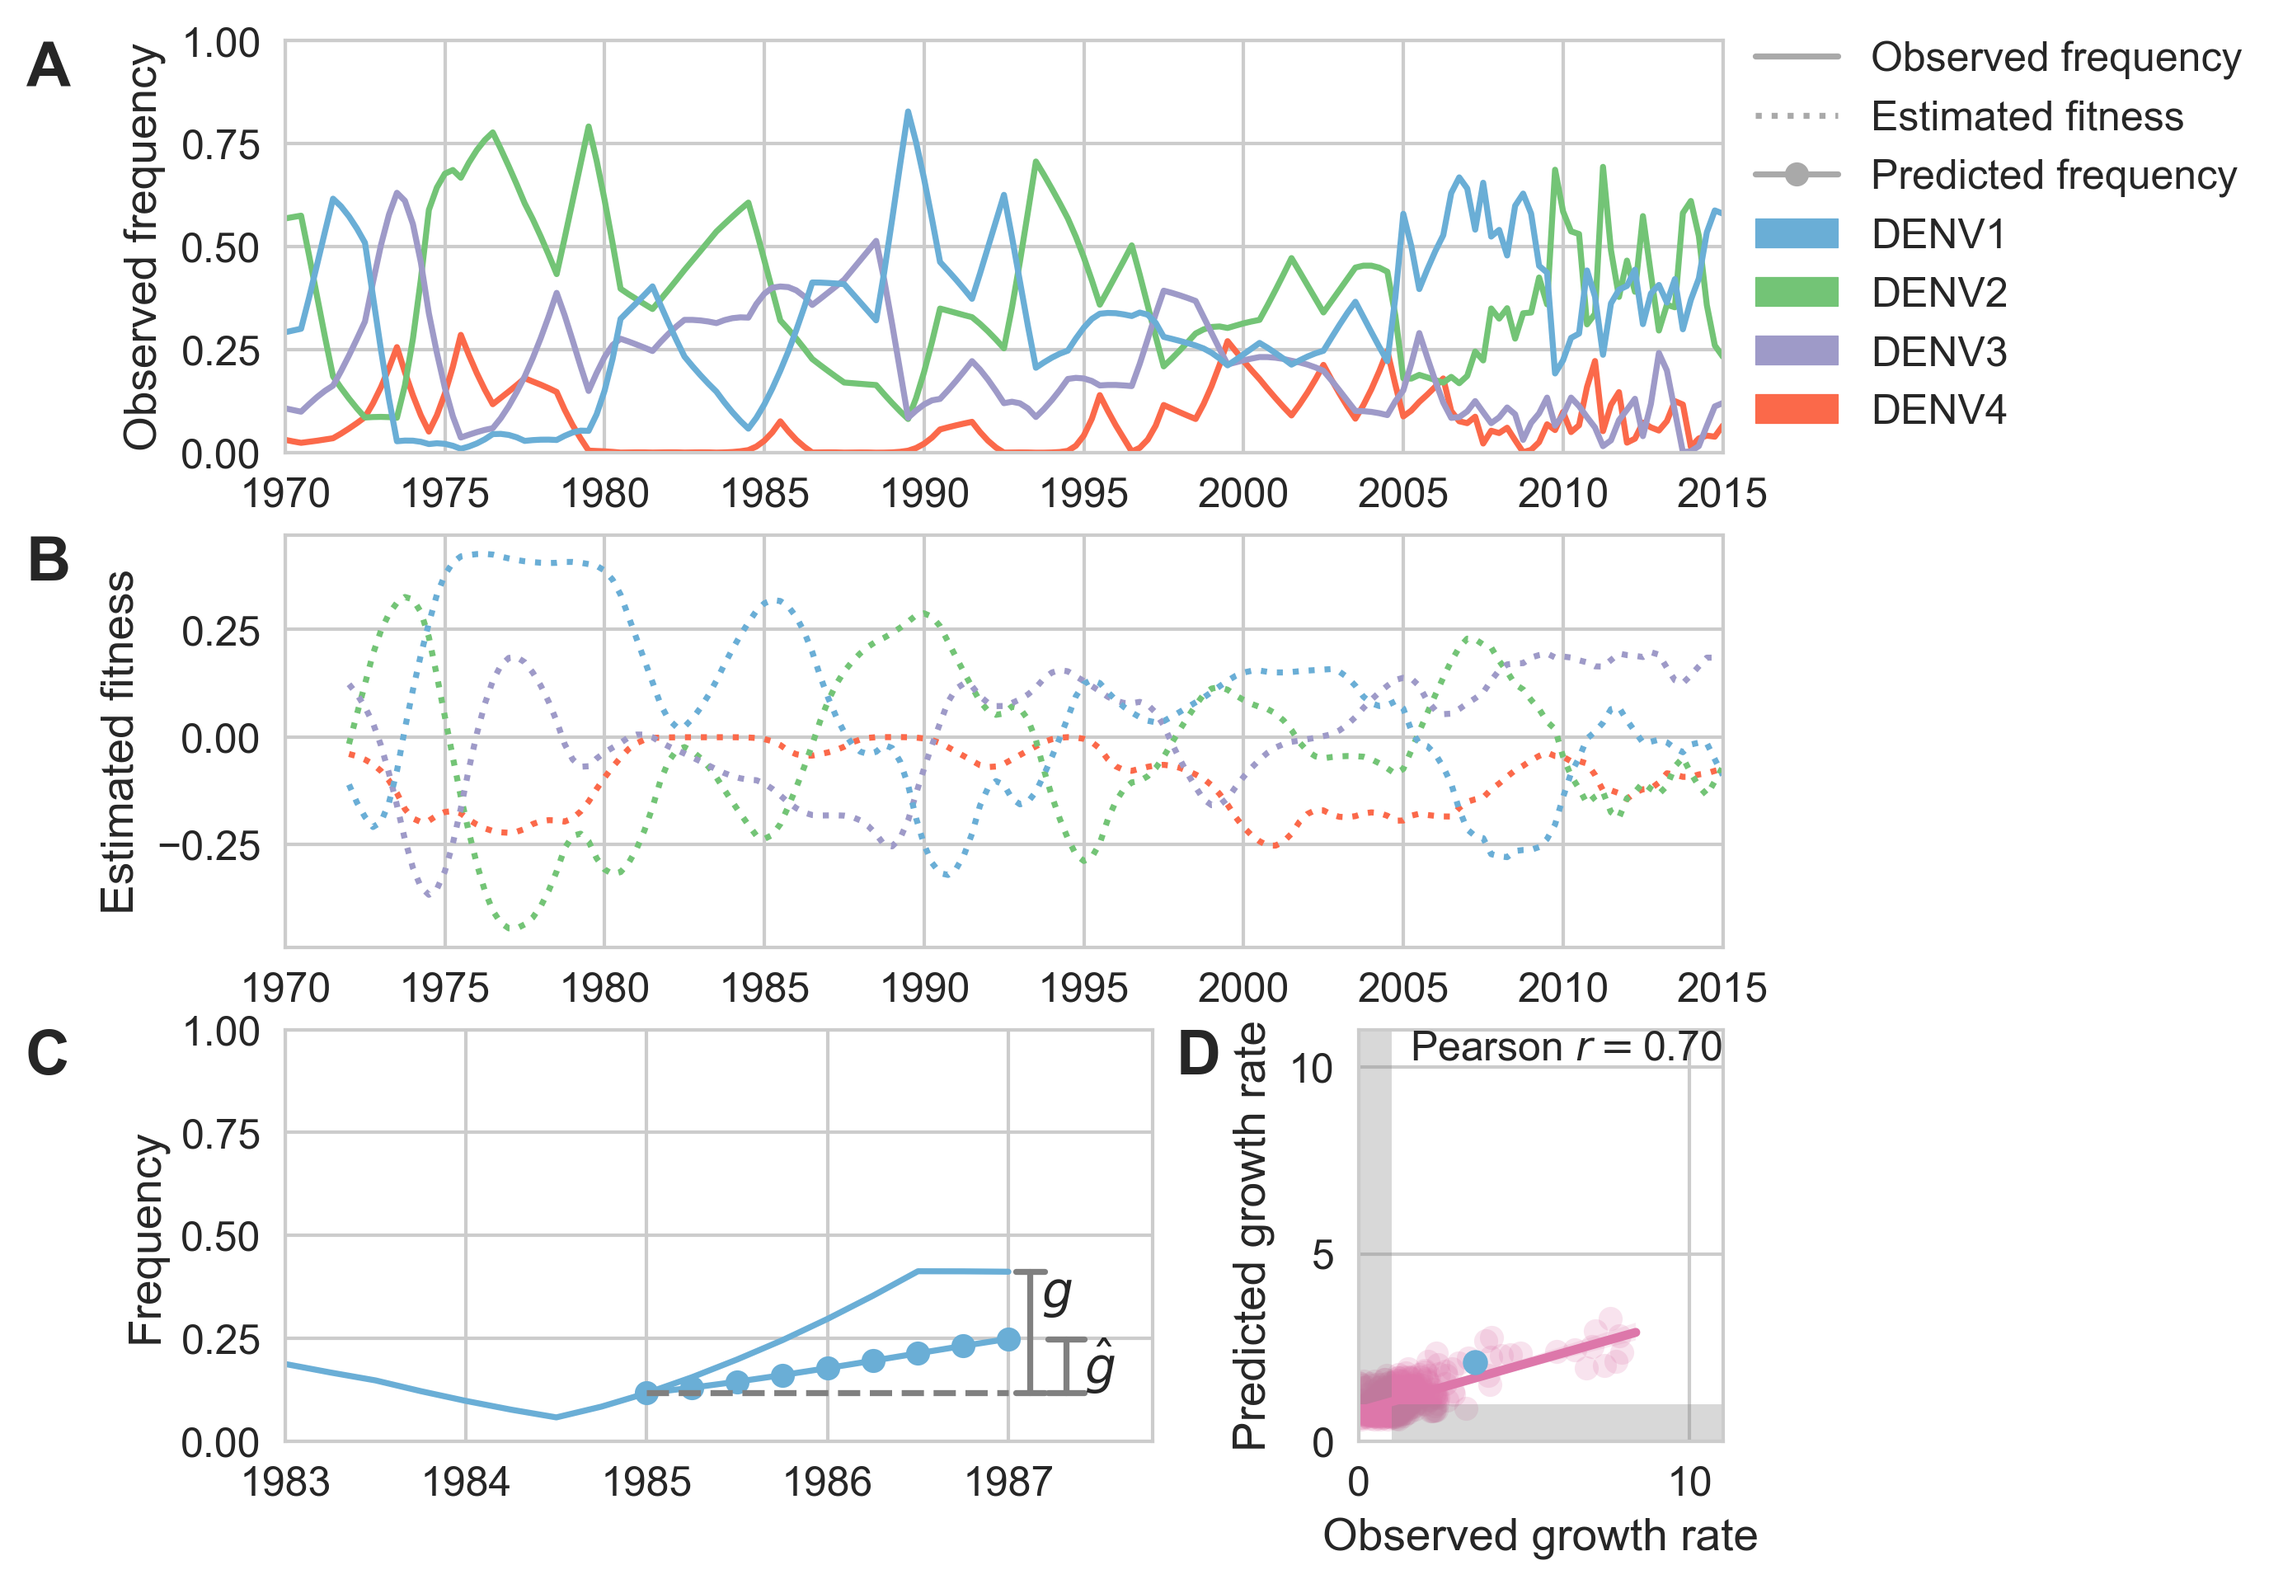
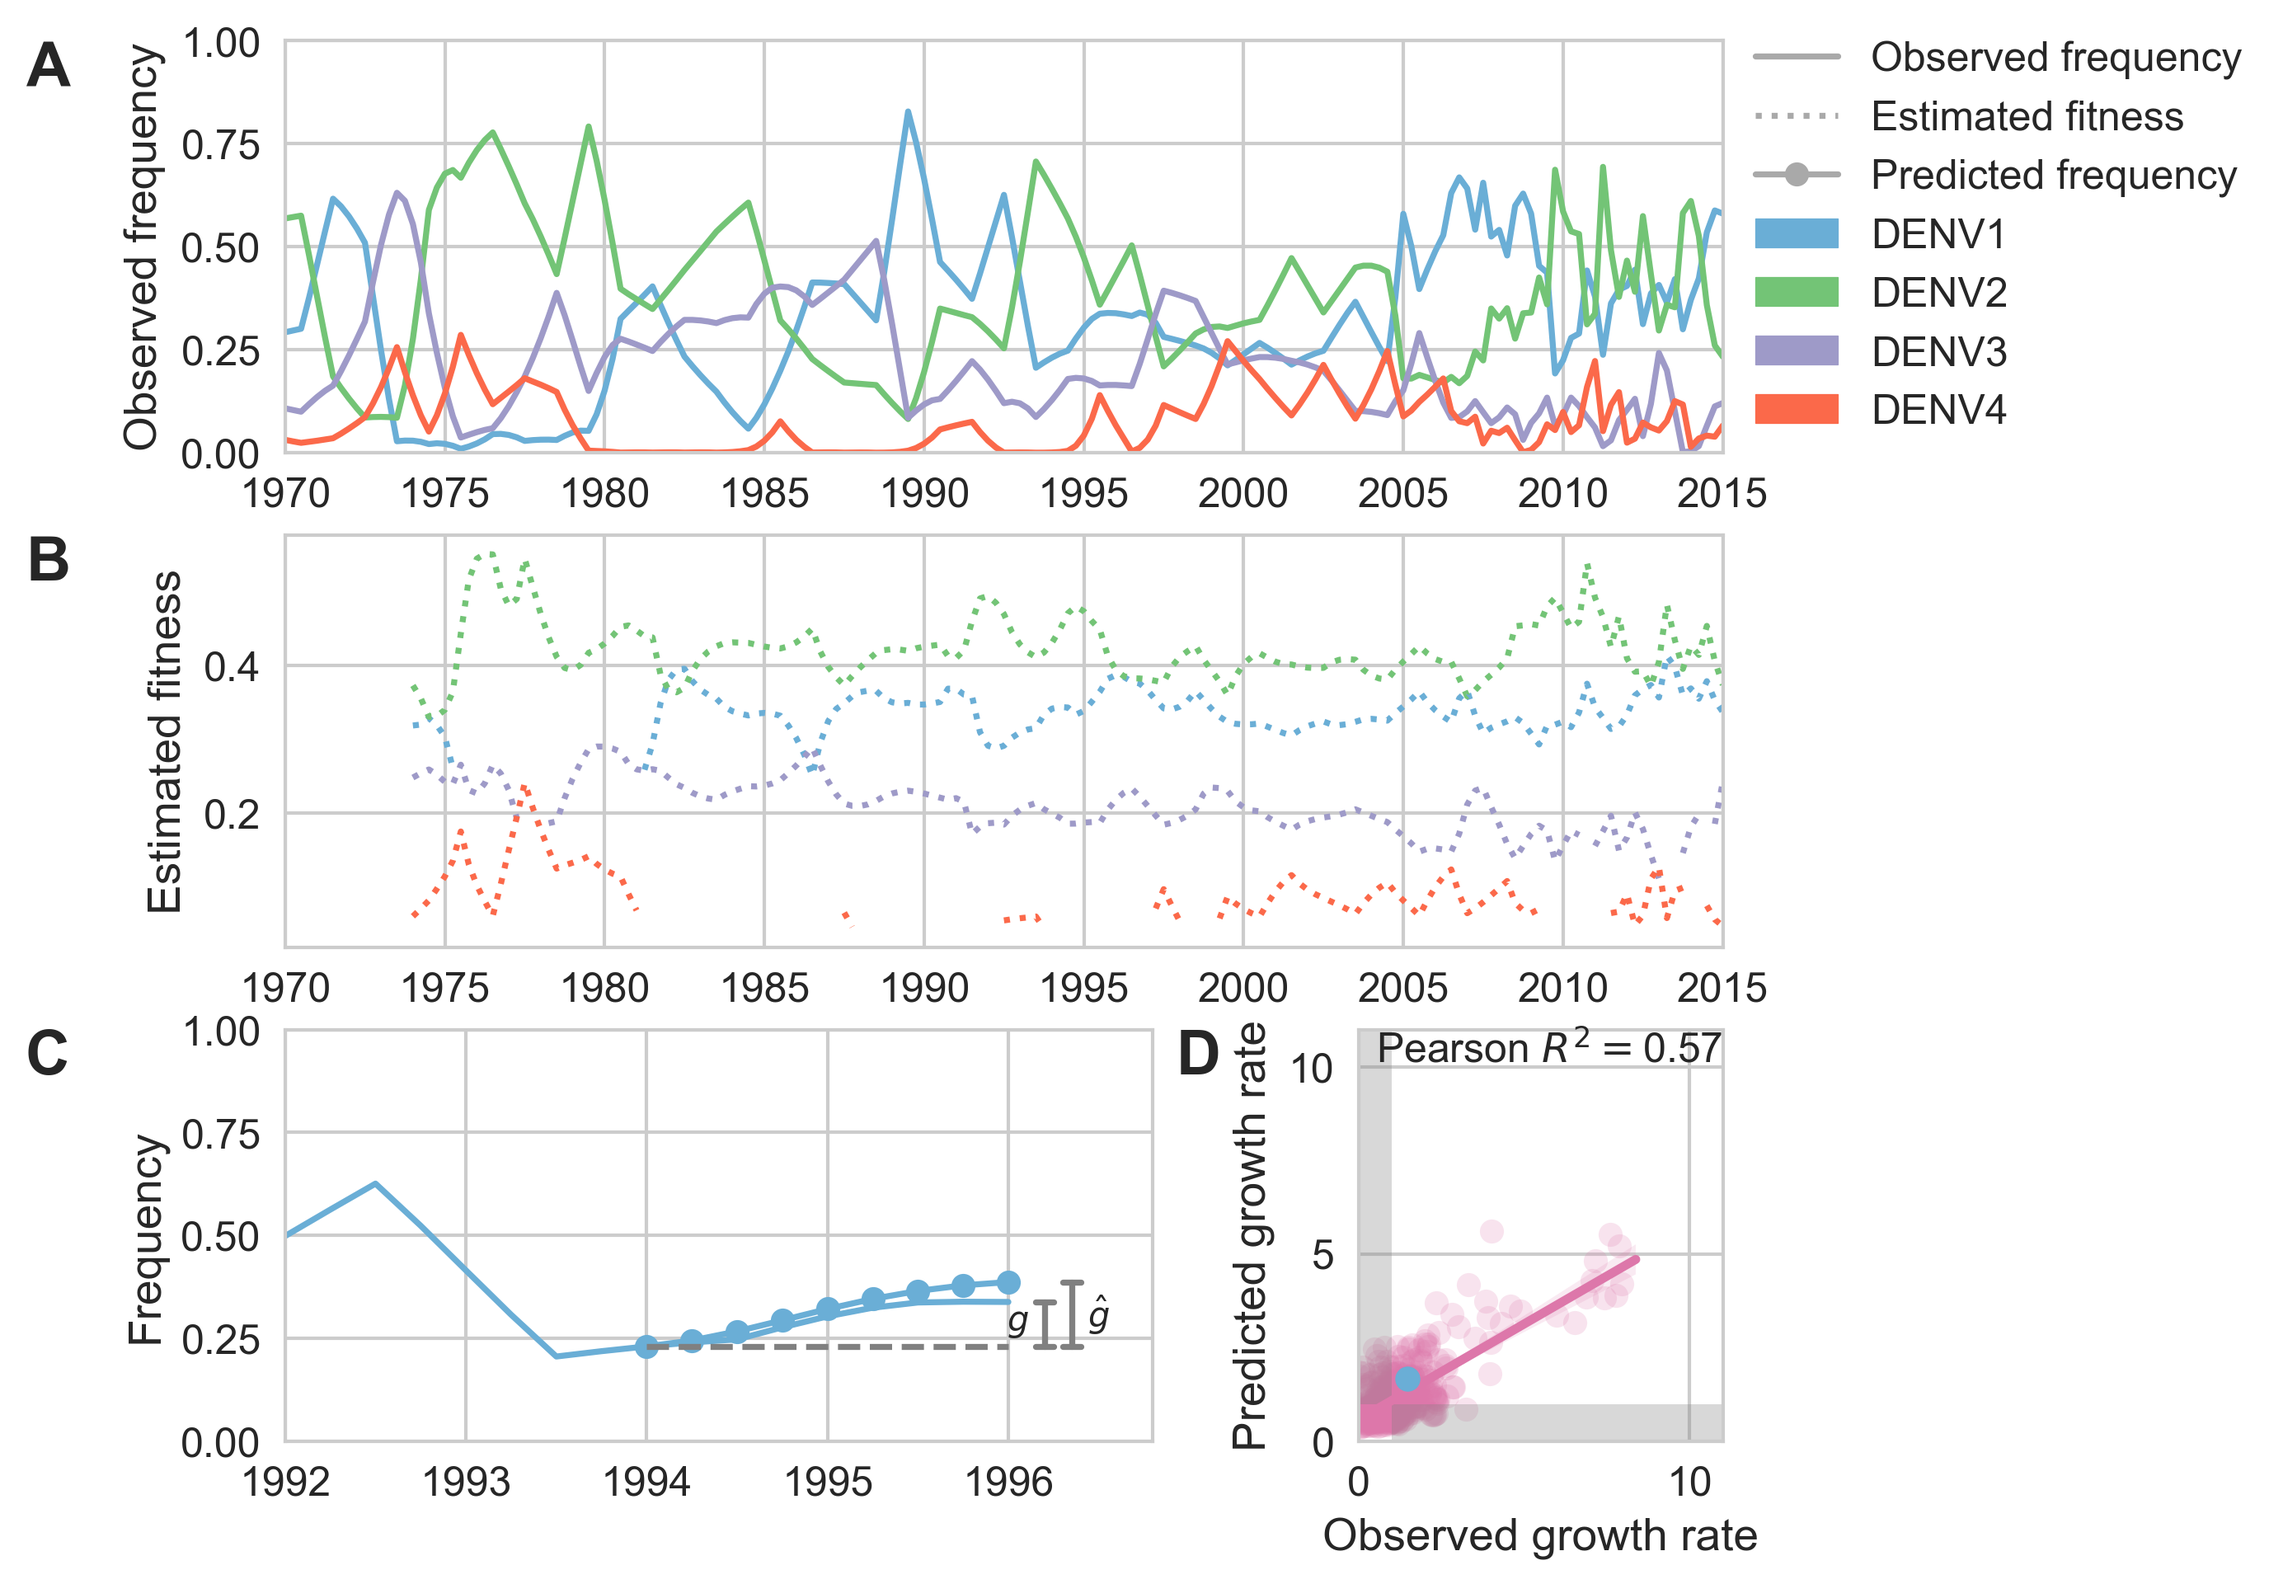
Update serotype fitness model results (RMSE-trajectory-optimized params)

diff --git a/manuscript/dengue-antigenic-dynamics.tex b/manuscript/dengue-antigenic-dynamics.tex
@@ -301,7 +301,7 @@ Thus, if antigenic novelty constitutes a fitness advantage for DENV, then we wou
     \textbf{A} The relative frequency of each serotype, $x_i$, in Southeast Asia is estimated every three months based on available sequence data.
     \textbf{B} We calculate antigenic fitness for each serotype over time as its frequency-weighted antigenic distance from recently circulating viruses.
     We then add this to a time-invariant intrinsic fitness value to calculate total fitness (shown here, arbitrary units).
-    \textbf{C} illustrates DENV1 frequencies between 1983 and 1987 as an example of how the model predicts clade growth rates.
+    \textbf{C} illustrates DENV1 frequencies between 1994 and 1996 as an example of how the model predicts clade growth rates.
     At each timepoint $t$, we blind the model to all empirical data from timepoints later than $t$ and predict each serotype's future trajectory based on its initial frequency, time-invariant intrinsic fitness, and antigenic fitness at time $t$ (Methods, Eq.~\ref{eq_predict_frequency}).
     We predict forward in three-month increments for a total prediction period of $dt = 2$ years.
     At each increment, we use the predicted stepwise frequency change to adjust our estimates of antigenic fitness on a rolling basis (Methods, Eq.~\ref{eq_compounding_immunity}).
@@ -323,13 +323,13 @@ To isolate the extent to which antigenic fitness contributes to clade success an
 We estimate the antigenic fitness of clade $i$ at time $t$ as a function of its antigenic distance from each viral clade $j$ that has circulated in the same population over the previous two years, weighted by the relative frequency of $j$ and adjusted for waning population immunity (Figure~\ref{serotype_fitness_model}B; Methods, Eq.~\ref{eq_waning_immunity}).
 Growth rates are estimated based on a two year sliding window (Figure~\ref{serotype_fitness_model}C).
 
-This simple model explains 48\% of the observed variation in serotype growth rates, and predicts serotype growth vs. decline correctly for 66\% of predictions (Figure~\ref{serotype_fitness_model}D).
+This simple model explains 56.8\% of the observed variation in serotype growth rates, and predicts serotype growth vs. decline correctly for 66.7\% of predictions (Figure~\ref{serotype_fitness_model}D).
 This suggests that antigenic fitness is a major driver of serotype population dynamics.
 This also demonstrates that this model captures key components of dengue population dynamics; examining the formulation of this model in more detail can yield insights into how antigenic relationships influence DENV population composition.
-The fitness model includes eight free parameters that are optimized such that the model most accurately reproduces the observed fluctuations in DENV population composition (reduction in frequency prediction error relative to a null model, see Methods).
-We find that serotype fluctuations are most consistent with a model wherein population immunity wanes linearly over time, with the probability of protection dropping by about 16\% per year for the first two years after primary infection.
+The fitness model includes eight free parameters that are optimized such that the model most accurately reproduces the observed fluctuations in DENV population composition (minimizing the RMSE of frequency predictions, see Methods).
+We find that serotype fluctuations are most consistent with a model wherein population immunity wanes linearly over time, with titers dropping by about 55\% per year for the first two years after primary infection.
 We also find that these dynamics are best explained by intrinsic fitness that moderately varies by serotype (Table~\ref{fitness_model_parameters}).
-However, intrinsic fitness alone is unable to predict serotype dynamics (Table~\ref{fitness_model_performance})
+However, intrinsic fitness alone is unable to predict serotype dynamics (Table~\ref{fitness_model_performance}).
 
 \subsection*{Antigenic novelty also partially predicts genotype success}
 To estimate how well antigenic fitness predicts genotype dynamics, we used the same model to predict genotype success and decline.
